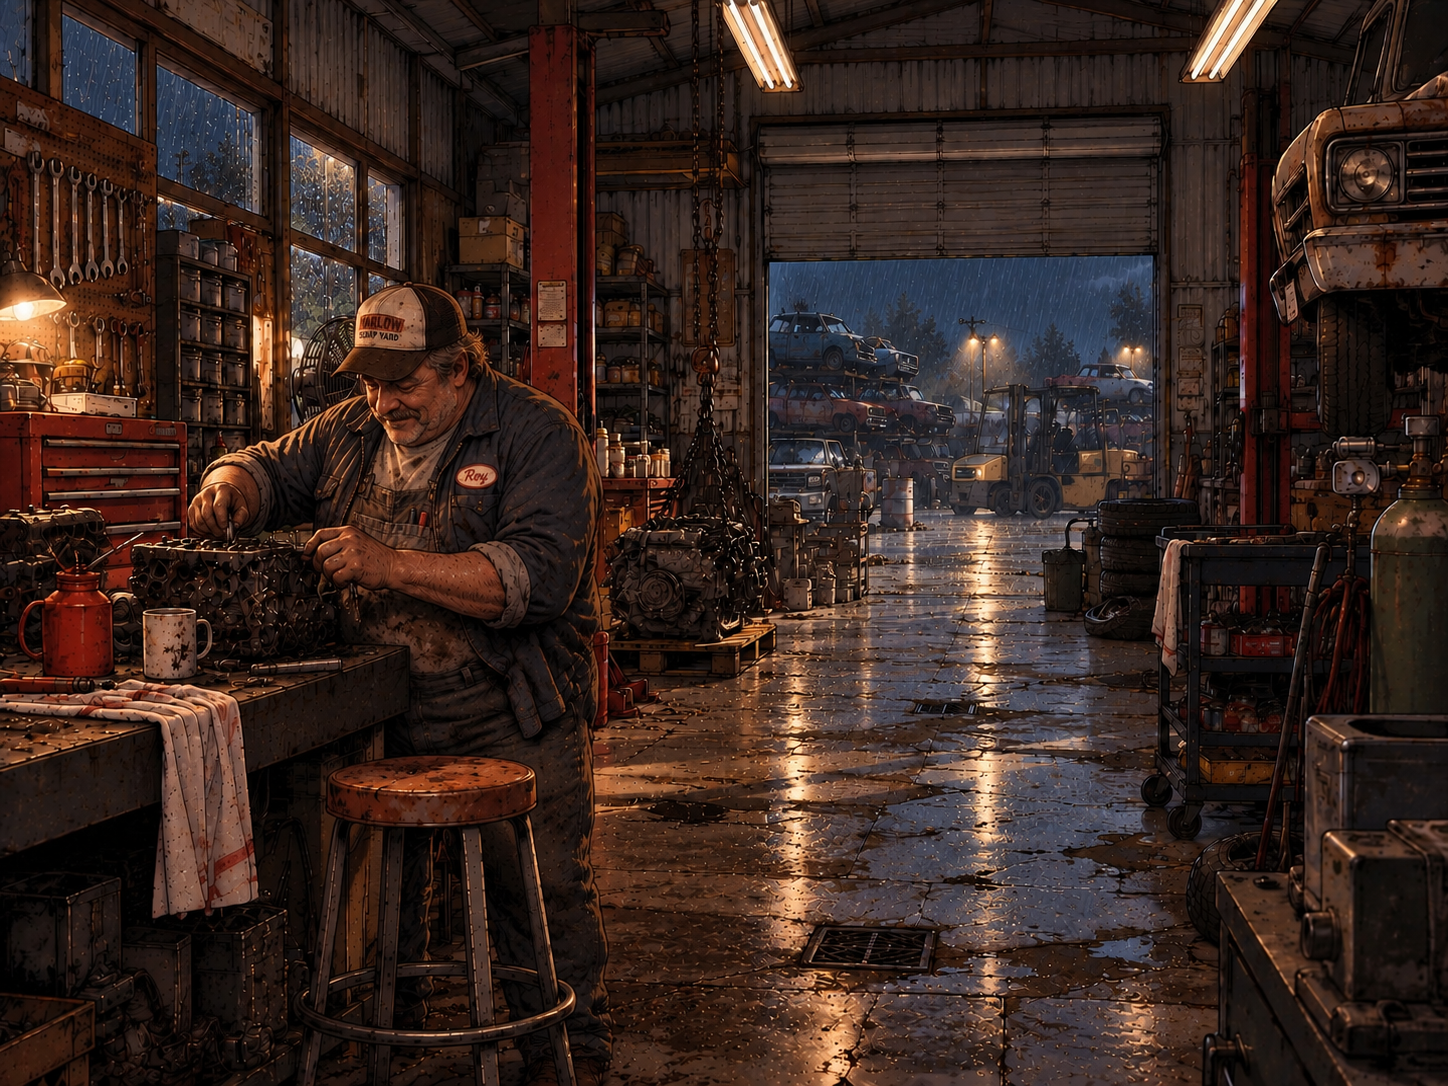
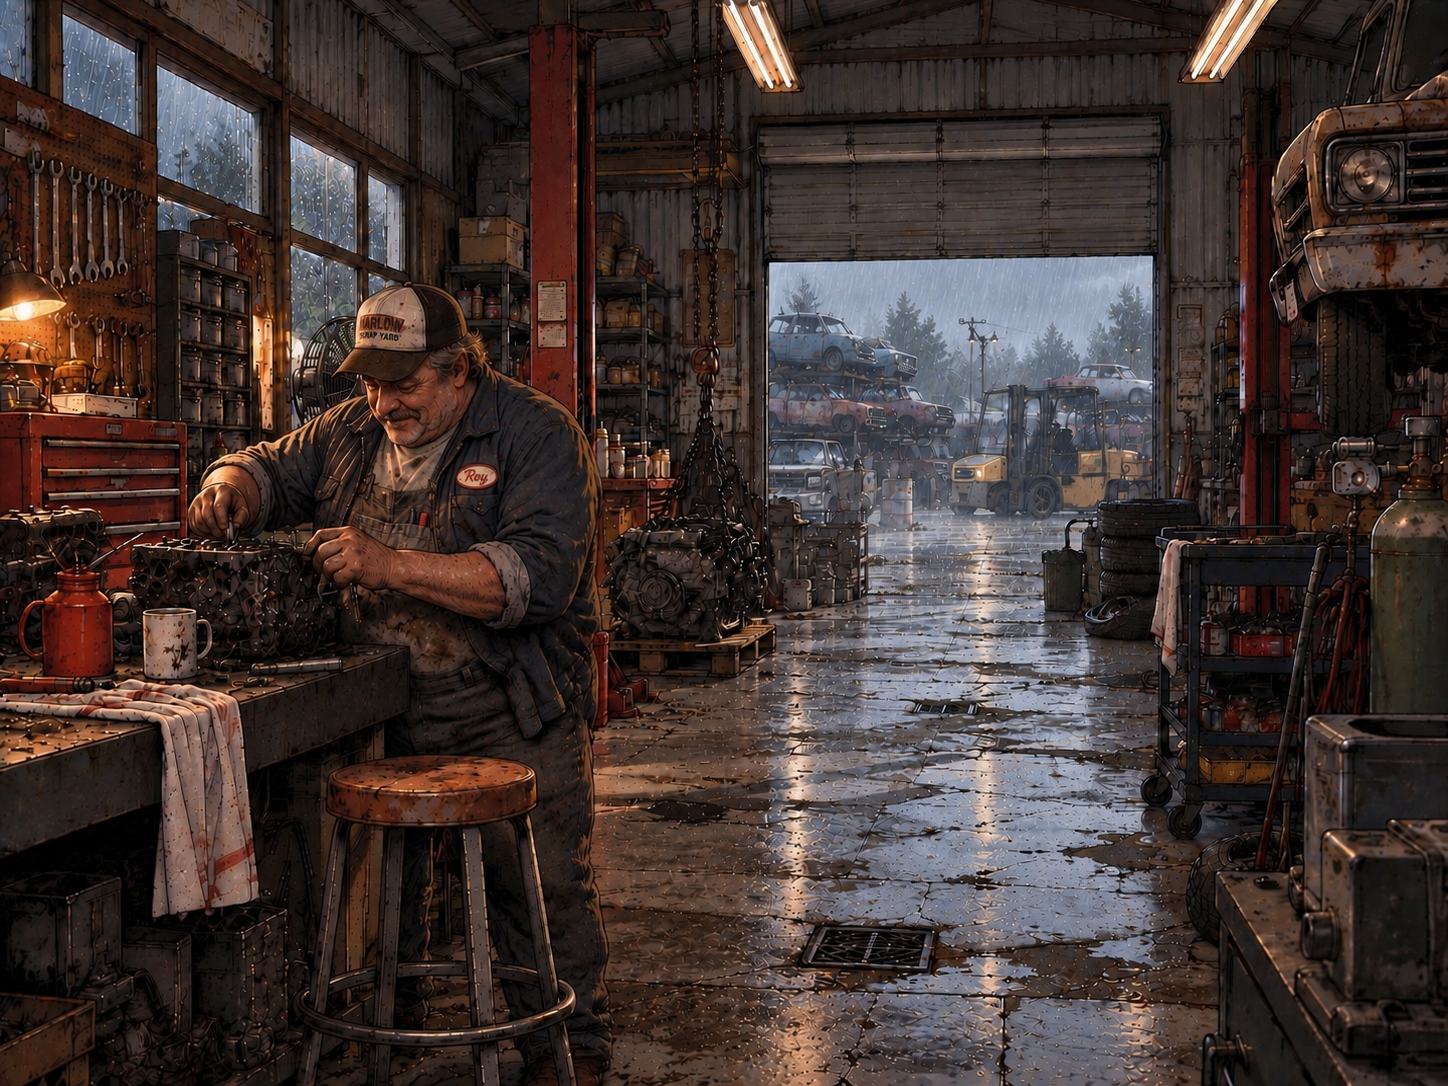
small fixes and new images

diff --git a/harlow/src/components/ActionList/ActionList.module.css b/harlow/src/components/ActionList/ActionList.module.css
@@ -146,23 +146,35 @@
   border-color: var(--accent-bright);
 }
 
+:global(.scene-image-frame-hallway) .overlayActionList {
+  padding-top: 36px;
+  background: linear-gradient(180deg, rgba(0, 0, 0, 0), rgba(8, 4, 5, 0.82) 22%, rgba(8, 4, 5, 0.9) 100%);
+}
+
 :global(.scene-image-frame-hallway) .overlayActionList h2 {
-  color: var(--muted);
-  text-shadow: none;
+  position: absolute;
+  top: 12px;
+  left: 33%;
+  margin: 0;
+  color: #fff4f4;
+  text-shadow: 0 2px 8px #000;
+  transform: translateX(-50%);
 }
 
 :global(.scene-image-frame-hallway) .overlayActionButtons {
   width: min(100%, 620px);
   margin-inline: auto;
+  margin-top: 10px;
 }
 
 :global(.scene-image-frame-hallway) .overlayActionButtons button {
-  min-height: 34px;
-  padding-top: 6px;
-  padding-bottom: 6px;
-  font-size: 15px;
-  background: rgba(255, 255, 255, 0.035);
-  backdrop-filter: none;
+  min-height: 44px;
+  padding-top: 9px;
+  padding-bottom: 9px;
+  font-size: 17px;
+  background: rgba(21, 16, 16, 0.82);
+  border-color: rgba(239, 221, 221, 0.28);
+  backdrop-filter: blur(4px);
 }
 
 .overlayActionList h2,

diff --git a/harlow/src/app/page.tsx b/harlow/src/app/page.tsx
@@ -1001,7 +1001,7 @@ export default function Home() {
                 src={closeup.video}
                 className="scene-pickup-video"
                 onLoadedMetadata={(event) => {
-                  event.currentTarget.playbackRate = 1.25;
+                  event.currentTarget.playbackRate = 2;
                 }}
                 autoPlay
                 muted
@@ -1361,11 +1361,13 @@ export default function Home() {
             closeup={closeup}
             onDismiss={dismissCloseup}
             rain={
-              RAIN_WEATHER.includes(gameState.weather)
-                ? sceneIsIndoor
-                  ? "interior"
-                  : "exterior"
-                : null
+              closeup.disableWeatherFilter
+                ? null
+                : RAIN_WEATHER.includes(gameState.weather)
+                  ? sceneIsIndoor
+                    ? "interior"
+                    : "exterior"
+                  : null
             }
             rainNight={isNightTime(gameState.time)}
           />

diff --git a/harlow/src/game/story.ts b/harlow/src/game/story.ts
@@ -95,8 +95,15 @@ export type ConversationChoice = {
     image: string;
     thought: string;
     label?: string;
+    /** Some memories should bypass the rainy override styling. */
+    disableWeatherFilter?: boolean;
     /** Optional follow-up closeup (e.g. drawer shut). */
-    next?: { image: string; thought: string; label?: string };
+    next?: {
+      image: string;
+      thought: string;
+      label?: string;
+      disableWeatherFilter?: boolean;
+    };
     /** Set when the close-up is actually shown, not when the line is chosen. */
     setsFlags?: import("./quests").StoryFlag | import("./quests").StoryFlag[];
   };

diff --git a/harlow/src/game/useGame.ts b/harlow/src/game/useGame.ts
@@ -931,12 +931,14 @@ export function useGame() {
           video: choice.closeup.video ? toUrl(choice.closeup.video) : undefined,
           thought: choice.closeup.thought,
           label: choice.closeup.label,
+          disableWeatherFilter: choice.closeup.disableWeatherFilter,
         },
         choice.closeup.next
           ? {
               image: toUrl(choice.closeup.next.image),
               thought: choice.closeup.next.thought,
               label: choice.closeup.next.label,
+              disableWeatherFilter: choice.closeup.next.disableWeatherFilter,
             }
           : undefined,
       );

diff --git a/harlow/src/game/scenes.ts b/harlow/src/game/scenes.ts
@@ -650,8 +650,9 @@ export const elrodHouse: Scene = {
       closeup: {
         image: "./images/misc/flashbackEthanPovForest.png",
         thought:
-          "Flashlights in the trees. October night. Same night Emily never came home.",
+          "The police tapes reminds me of that night. Same night Emily disappeared... I remember watching the police looking for her. I remember the rain. I remember the woods. For some reason this feels exactly like that night.",
         label: "1972 memory",
+        disableWeatherFilter: true,
       },
       setsFlags: ["tapeSeen"],
       questStep: "rachel",

diff --git a/harlow/src/game/captionPlace.ts b/harlow/src/game/captionPlace.ts
@@ -120,7 +120,11 @@ export function placeSceneChrome(frame: HTMLElement) {
 
   const sceneId = frame.dataset.sceneId ?? "";
   const mode = window.innerWidth <= 640 ? "phone" : "desk";
-  const keepHomeOverlays = mode === "desk" && (sceneId === "hallway" || sceneId === "kitchen");
+  const keepHomeOverlays = mode === "desk" && (
+    sceneId === "hallway"
+    || sceneId === "kitchen"
+    || sceneId === "living-room"
+  );
   if (frame.dataset.captionScene !== sceneId || frame.dataset.captionMode !== mode) {
     delete frame.dataset.choices;
     delete frame.dataset.thought;

diff --git a/harlow/src/game/choices.ts b/harlow/src/game/choices.ts
@@ -53,7 +53,14 @@ export type Choice = {
     video?: string;
     thought: string;
     label?: string;
-    next?: { image: string; thought: string; label?: string };
+    /** Some memories should bypass the rainy override styling. */
+    disableWeatherFilter?: boolean;
+    next?: {
+      image: string;
+      thought: string;
+      label?: string;
+      disableWeatherFilter?: boolean;
+    };
   };
   /** Hidden once any listed story flag is set. */
   excludesStoryFlag?: import("./quests").StoryFlag | import("./quests").StoryFlag[];

diff --git a/harlow/src/components/CloseupOverlay/CloseupOverlay.tsx b/harlow/src/components/CloseupOverlay/CloseupOverlay.tsx
@@ -11,6 +11,8 @@ export type CloseupContent = {
   thought: string;
   /** Optional short label for screen readers. */
   label?: string;
+  /** Some memories should avoid the rainy-weather closeup wash. */
+  disableWeatherFilter?: boolean;
 };
 
 type CloseupOverlayProps = {
